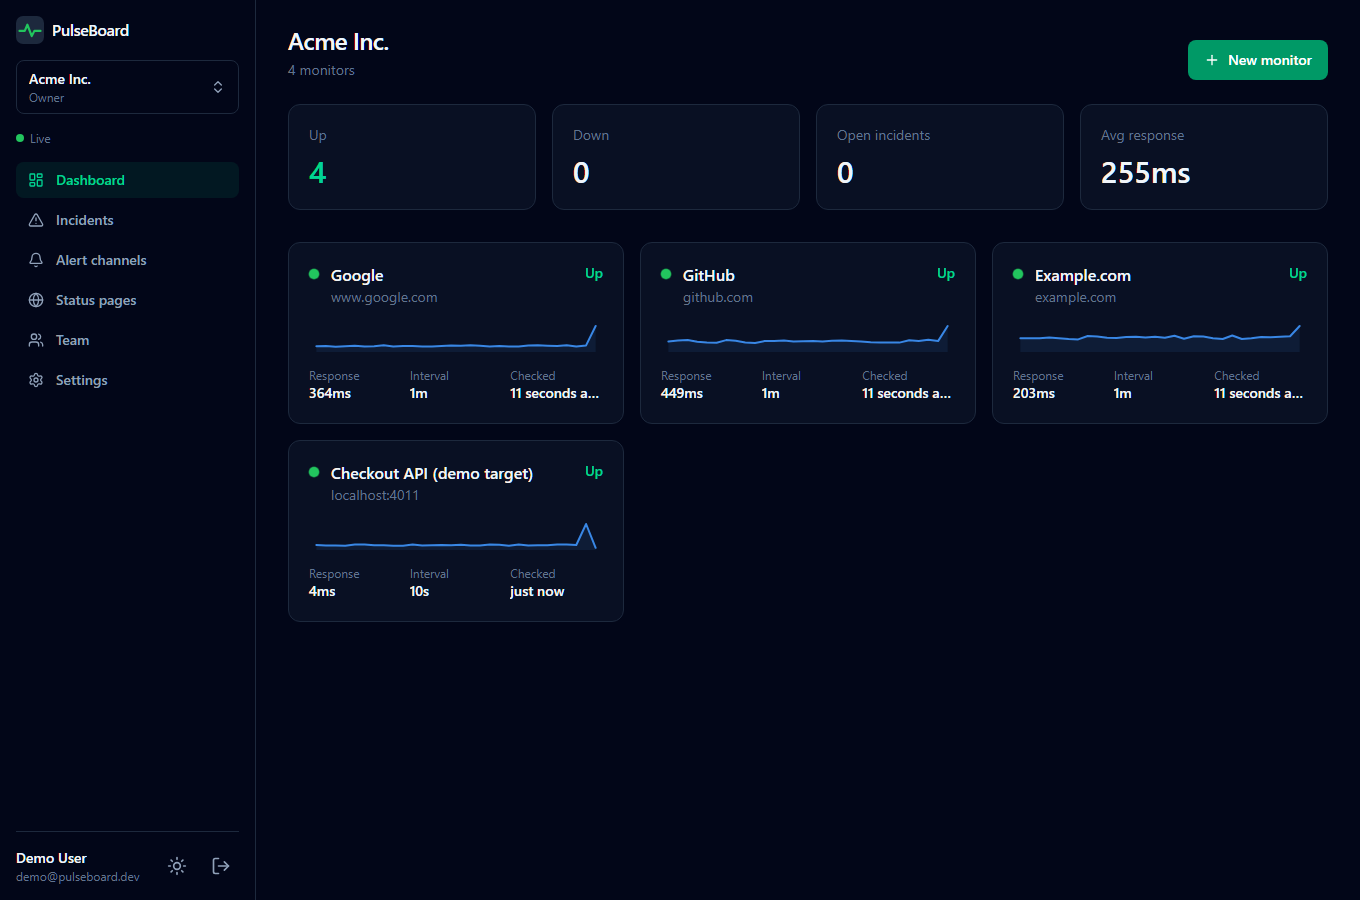
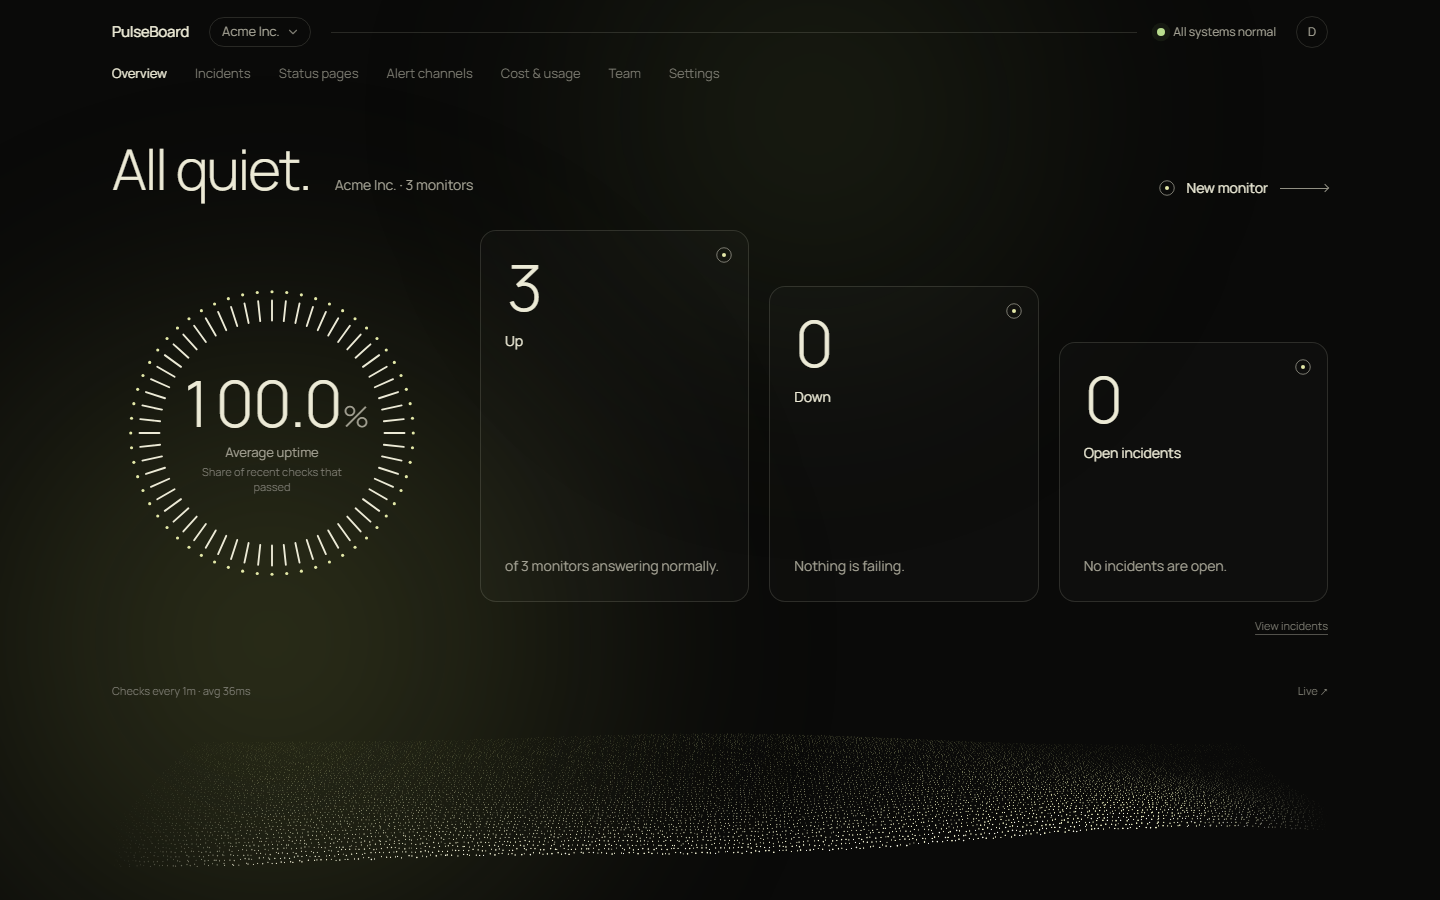
README: live demo, Health deck, signal field, corrected facts, new screenshots
Dark-only UI, Docker optional, 761 tests, RESEND_API_KEY and SEED_LOCAL_DEMO in
the env table, free-plan notes, screenshots retaken from the deployed site.

diff --git a/README.md b/README.md
@@ -14,6 +14,10 @@ each monitor costs and respects a monthly budget.
 MongoDB is the only infrastructure: it stores the data, it is the job queue (Agenda), and its
 change streams are the realtime event bus. No Redis, no message broker.
 
+**Live demo:** https://pulseboard-ten-alpha.vercel.app (frontend on Vercel, API + worker on a free
+Render service, data on MongoDB Atlas). Use the demo login button on the sign-in page. The free
+backend sleeps when idle, so the first request after a pause can take up to a minute.
+
 ![Dashboard during an outage](docs/screenshots/dashboard-outage.png)
 
 ## Monitor types
@@ -88,6 +92,12 @@ bodies. Details in [packages/agent/README.md](packages/agent/README.md).
   incidents to the browser instantly (falls back to polling if the socket drops).
 - **Analytics**: uptime for 24 h / 7 / 30 / 90 days, response-time chart (1 h / 24 h / 7 d,
   downsampled server-side), timing breakdown, 90-day uptime bars. Every chart has a table view.
+- **Health deck** on every monitor: live metric cards (uptime, p95, failed checks, request rate,
+  lateness... by monitor type) with sparklines, a detail panel and a keyboard-navigable selection,
+  fed by `GET /monitors/:mid/metrics` and updated from live check events.
+- **Signal field**: a generative particle wave on the dashboard and status pages that reacts to
+  real response times, check frequency, live checks and incidents (WebGL with a 2D fallback).
+- **Sign in with Google or GitHub** (optional, enabled by credentials), besides email and password.
 - **Public status pages**: no login, overall banner, per-service 90-day bars, incident
   history; whitelist-only data, cached for 30 s.
 - **Teams**: workspaces with owner / member / viewer roles, enforced on every request.
@@ -95,7 +105,8 @@ bodies. Details in [packages/agent/README.md](packages/agent/README.md).
 - **Security**: JWT access tokens in memory + rotating httpOnly refresh cookie with reuse
   detection, bcrypt, SSRF protection (at save time _and_ connect time), helmet, strict CORS,
   rate limits, input validation with Zod everywhere.
-- Dark-first UI with light mode, responsive down to phone width.
+- Dark-only "Ambient Signal" UI (near-black, soft moss light, hairlines), responsive down to phone
+  width, with reduced-motion support.
 
 | Monitor detail                                  | Public status page                                      |
 | ----------------------------------------------- | ------------------------------------------------------- |
@@ -148,12 +159,14 @@ backend) · Nodemailer · Vitest, Supertest, mongodb-memory-server.
 
 ## Run it locally
 
-Requirements: **Node 20+**, **Docker Desktop** (for MongoDB).
+Requirements: **Node 20+** and a MongoDB **replica set** (needed for change streams): a free
+[MongoDB Atlas](https://www.mongodb.com/atlas) cluster, or `docker compose up -d` if you have
+Docker Desktop. Docker is optional.
 
 ```bash
 git clone <repo-url> pulseboard && cd pulseboard
 cp .env.example .env         # works as-is for local development
-docker compose up -d         # MongoDB as a single-node replica set (rs0), needed for change streams
+docker compose up -d         # local MongoDB replica set (rs0); skip it if MONGODB_URI in .env is an Atlas string
 npm install
 npm run migrate              # only when upgrading an existing database (safe to re-run)
 npm run seed                 # demo account + realistic history (safe to re-run)
@@ -216,42 +229,44 @@ verified; otherwise a new user (no password) with a personal workspace is create
 
 All variables live in one `.env` at the repository root (see `.env.example`).
 
-| Variable                       | Used by                | Default / example                                                           | Purpose                                                                                                                 |
-| ------------------------------ | ---------------------- | --------------------------------------------------------------------------- | ----------------------------------------------------------------------------------------------------------------------- |
-| `NODE_ENV`                     | all                    | `development`                                                               | `production` enables secure cookies and JSON logs                                                                       |
-| `MONGODB_URI`                  | api, worker            | `mongodb://localhost:27017/pulseboard?replicaSet=rs0&directConnection=true` | Must be a replica set (change streams)                                                                                  |
-| `LOG_LEVEL`                    | api, worker            | `info`                                                                      | pino log level                                                                                                          |
-| `DEMO_MODE`                    | api, worker            | `true`                                                                      | Allows 10 s check intervals (30 s otherwise); shows demo login                                                          |
-| `ALLOW_PRIVATE_TARGETS`        | api, worker            | `true` locally, `false` in production                                       | Allows monitoring localhost/private IPs (local demo-target)                                                             |
-| `RUN_MODE`                     | api                    | `api` (or `combined`)                                                       | `combined` makes the API also run the worker in the same process (one-service hosting). `/health` then reports `worker` |
-| `API_PORT` (or `PORT`)         | api                    | `4000`                                                                      | HTTP port                                                                                                               |
-| `CLIENT_ORIGIN`                | api                    | `http://localhost:5173`                                                     | CORS + Socket.io allowed origin                                                                                         |
-| `JWT_ACCESS_SECRET`            | api                    | 32+ random chars                                                            | Signs access tokens                                                                                                     |
-| `JWT_REFRESH_SECRET`           | api                    | 32+ random chars, different                                                 | Signs refresh tokens                                                                                                    |
-| `ACCESS_TOKEN_TTL`             | api                    | `15m`                                                                       | Access token lifetime                                                                                                   |
-| `REFRESH_TOKEN_TTL_DAYS`       | api                    | `7`                                                                         | Refresh token lifetime                                                                                                  |
-| `BCRYPT_COST`                  | api                    | `12`                                                                        | Password hashing work factor                                                                                            |
-| `AUTH_RATE_LIMIT_MAX`          | api                    | `20`                                                                        | Login/register attempts per IP per 15 min                                                                               |
-| `TRUST_PROXY`                  | api                    | `false` (`true` on Render)                                                  | Real client IPs behind a proxy                                                                                          |
-| `GOOGLE_CLIENT_ID` / `_SECRET` | api                    | empty                                                                       | Enables "Sign in with Google" (both needed)                                                                             |
-| `GITHUB_CLIENT_ID` / `_SECRET` | api                    | empty                                                                       | Enables "Sign in with GitHub" (both needed)                                                                             |
-| `WORKER_HEALTH_PORT`           | worker                 | `4002`                                                                      | Worker `/health` port                                                                                                   |
-| `AGENDA_MAX_CONCURRENCY`       | worker, api (combined) | `20`                                                                        | Checks a worker runs in parallel                                                                                        |
-| `DASHBOARD_URL`                | api, worker            | `http://localhost:5173`                                                     | Links in alerts                                                                                                         |
-| `APP_URL`                      | api, worker            | empty → `DASHBOARD_URL`                                                     | Public web app URL: checker User-Agent, OAuth callback URLs                                                             |
-| `SMTP_HOST` … `SMTP_PASS`      | api, worker            | empty                                                                       | Email delivery; empty = Ethereal test inbox                                                                             |
-| `ALERT_FROM_EMAIL`             | api, worker            | `PulseBoard <alerts@pulseboard.local>`                                      | Sender of alert emails                                                                                                  |
-| `SEED_DISCORD_WEBHOOK_URL`     | seed                   | empty                                                                       | Creates a Discord channel when seeding                                                                                  |
-| `SEED_SLACK_WEBHOOK_URL`       | seed                   | empty                                                                       | Creates a Slack channel when seeding                                                                                    |
-| `SEED_ALERT_EMAIL`             | seed                   | empty                                                                       | Email channel target (default: the demo user)                                                                           |
-| `SEED_DEMO_TARGET_URL`         | seed                   | empty → `http://localhost:4011/`                                            | Demo-target URL to monitor (set to the deployed one in prod)                                                            |
-| `SEED_API_URL`                 | seed                   | empty → `http://localhost:4000/api/v1`                                      | API URL written to the demo file for the agent and heartbeat                                                            |
-| `DEMO_TARGET_PORT`             | demo-target            | `4011`                                                                      | Port (4001 is often taken by VS Code)                                                                                   |
-| `PULSEBOARD_AGENT_KEY`         | demo-target            | empty → seed file                                                           | Agent key for the demo-target's own agent                                                                               |
-| `PULSEBOARD_ENDPOINT`          | demo-target            | empty → seed file                                                           | PulseBoard API base URL for the agent (`…/api/v1`)                                                                      |
-| `HEARTBEAT_URL`                | heartbeat              | empty → seed file                                                           | Ping URL used by the demo heartbeat script                                                                              |
-| `VITE_API_URL`                 | client                 | `/api/v1`                                                                   | API base path (proxied/rewritten to the API)                                                                            |
-| `VITE_SOCKET_URL`              | client                 | `http://localhost:4000`                                                     | Socket.io server (the API's public URL in production)                                                                   |
+| Variable                       | Used by                | Default / example                                                           | Purpose                                                                                                                              |
+| ------------------------------ | ---------------------- | --------------------------------------------------------------------------- | ------------------------------------------------------------------------------------------------------------------------------------ |
+| `NODE_ENV`                     | all                    | `development`                                                               | `production` enables secure cookies and JSON logs                                                                                    |
+| `MONGODB_URI`                  | api, worker            | `mongodb://localhost:27017/pulseboard?replicaSet=rs0&directConnection=true` | Must be a replica set (change streams)                                                                                               |
+| `LOG_LEVEL`                    | api, worker            | `info`                                                                      | pino log level                                                                                                                       |
+| `DEMO_MODE`                    | api, worker            | `true`                                                                      | Allows 10 s check intervals (30 s otherwise); shows demo login                                                                       |
+| `ALLOW_PRIVATE_TARGETS`        | api, worker            | `true` locally, `false` in production                                       | Allows monitoring localhost/private IPs (local demo-target)                                                                          |
+| `RUN_MODE`                     | api                    | `api` (or `combined`)                                                       | `combined` makes the API also run the worker in the same process (one-service hosting). `/health` then reports `worker`              |
+| `API_PORT` (or `PORT`)         | api                    | `4000`                                                                      | HTTP port                                                                                                                            |
+| `CLIENT_ORIGIN`                | api                    | `http://localhost:5173`                                                     | CORS + Socket.io allowed origin                                                                                                      |
+| `JWT_ACCESS_SECRET`            | api                    | 32+ random chars                                                            | Signs access tokens                                                                                                                  |
+| `JWT_REFRESH_SECRET`           | api                    | 32+ random chars, different                                                 | Signs refresh tokens                                                                                                                 |
+| `ACCESS_TOKEN_TTL`             | api                    | `15m`                                                                       | Access token lifetime                                                                                                                |
+| `REFRESH_TOKEN_TTL_DAYS`       | api                    | `7`                                                                         | Refresh token lifetime                                                                                                               |
+| `BCRYPT_COST`                  | api                    | `12`                                                                        | Password hashing work factor                                                                                                         |
+| `AUTH_RATE_LIMIT_MAX`          | api                    | `20`                                                                        | Login/register attempts per IP per 15 min                                                                                            |
+| `TRUST_PROXY`                  | api                    | `false` (`true` on Render)                                                  | Real client IPs behind a proxy                                                                                                       |
+| `GOOGLE_CLIENT_ID` / `_SECRET` | api                    | empty                                                                       | Enables "Sign in with Google" (both needed)                                                                                          |
+| `GITHUB_CLIENT_ID` / `_SECRET` | api                    | empty                                                                       | Enables "Sign in with GitHub" (both needed)                                                                                          |
+| `WORKER_HEALTH_PORT`           | worker                 | `4002`                                                                      | Worker `/health` port                                                                                                                |
+| `AGENDA_MAX_CONCURRENCY`       | worker, api (combined) | `20`                                                                        | Checks a worker runs in parallel                                                                                                     |
+| `DASHBOARD_URL`                | api, worker            | `http://localhost:5173`                                                     | Links in alerts                                                                                                                      |
+| `APP_URL`                      | api, worker            | empty → `DASHBOARD_URL`                                                     | Public web app URL: checker User-Agent, OAuth callback URLs                                                                          |
+| `SMTP_HOST` … `SMTP_PASS`      | api, worker            | empty                                                                       | Email delivery; empty = Ethereal test inbox                                                                                          |
+| `RESEND_API_KEY`               | api, worker            | empty                                                                       | Send email over Resend's HTTPS API instead of SMTP (needed on Render's free plan, which blocks SMTP). Takes precedence over `SMTP_*` |
+| `ALERT_FROM_EMAIL`             | api, worker            | `PulseBoard <alerts@pulseboard.local>`                                      | Sender of alert emails                                                                                                               |
+| `SEED_DISCORD_WEBHOOK_URL`     | seed                   | empty                                                                       | Creates a Discord channel when seeding                                                                                               |
+| `SEED_SLACK_WEBHOOK_URL`       | seed                   | empty                                                                       | Creates a Slack channel when seeding                                                                                                 |
+| `SEED_ALERT_EMAIL`             | seed                   | empty                                                                       | Email channel target (default: the demo user)                                                                                        |
+| `SEED_DEMO_TARGET_URL`         | seed                   | empty → `http://localhost:4011/`                                            | Demo-target URL to monitor (set to the deployed one in prod)                                                                         |
+| `SEED_LOCAL_DEMO`              | seed                   | auto: on for a local database                                               | `true`/`false` forces the demo-target, heartbeat and agent monitors on or off. Off on a hosted database, where they would sit down   |
+| `SEED_API_URL`                 | seed                   | empty → `http://localhost:4000/api/v1`                                      | API URL written to the demo file for the agent and heartbeat                                                                         |
+| `DEMO_TARGET_PORT`             | demo-target            | `4011`                                                                      | Port (4001 is often taken by VS Code)                                                                                                |
+| `PULSEBOARD_AGENT_KEY`         | demo-target            | empty → seed file                                                           | Agent key for the demo-target's own agent                                                                                            |
+| `PULSEBOARD_ENDPOINT`          | demo-target            | empty → seed file                                                           | PulseBoard API base URL for the agent (`…/api/v1`)                                                                                   |
+| `HEARTBEAT_URL`                | heartbeat              | empty → seed file                                                           | Ping URL used by the demo heartbeat script                                                                                           |
+| `VITE_API_URL`                 | client                 | `/api/v1`                                                                   | API base path (proxied/rewritten to the API)                                                                                         |
+| `VITE_SOCKET_URL`              | client                 | `http://localhost:4000`                                                     | Socket.io server (the API's public URL in production)                                                                                |
 
 ## Testing
 
@@ -259,7 +274,7 @@ All variables live in one `.env` at the repository root (see `.env.example`).
 npm test
 ```
 
-571 tests across six workspaces, all run against an in-memory MongoDB **replica set**
+761 tests across six workspaces, all run against an in-memory MongoDB **replica set**
 (so change streams and transactions behave like production):
 
 - **Unit**: incident state machine (incl. flapping and per-type thresholds), uptime maths, SSRF
@@ -299,6 +314,10 @@ alerts, rollups); there is no separate worker service. Then fill in the variable
 
 JWT secrets are generated by Render.
 
+> **Email on the free plan:** Render's free plan blocks outbound SMTP, so email alerts there need
+> `RESEND_API_KEY` (Resend's HTTPS API; free tier). Until you verify a domain at resend.com, mail
+> can only be sent to your own Resend account address. Discord and Slack alerts are unaffected.
+>
 > **Free plan caveat:** a free Render web service spins down after about 15 minutes without
 > HTTP traffic, and **no checks run while it is asleep**. Keep it awake by requesting
 > `https://<your-api>.onrender.com/health` every 10 minutes from an external scheduler
